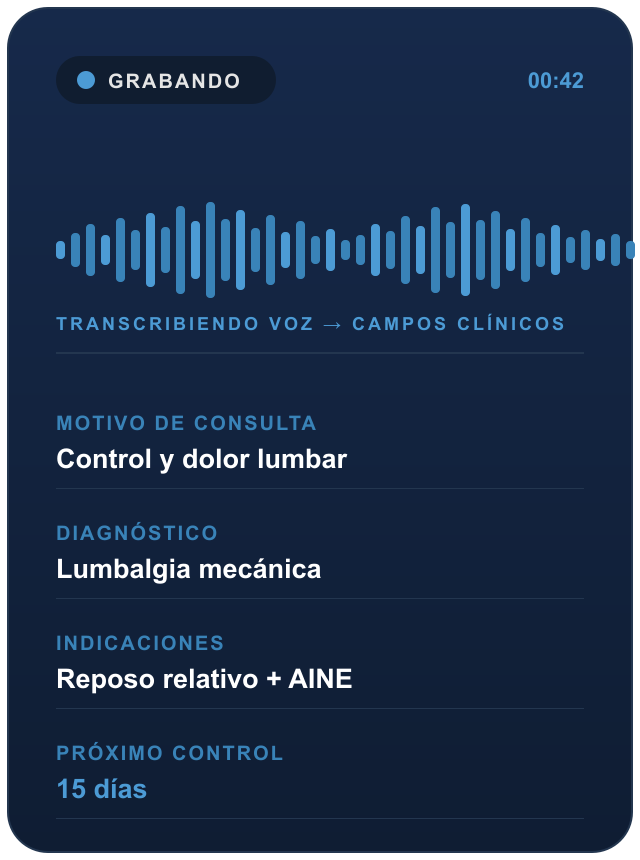
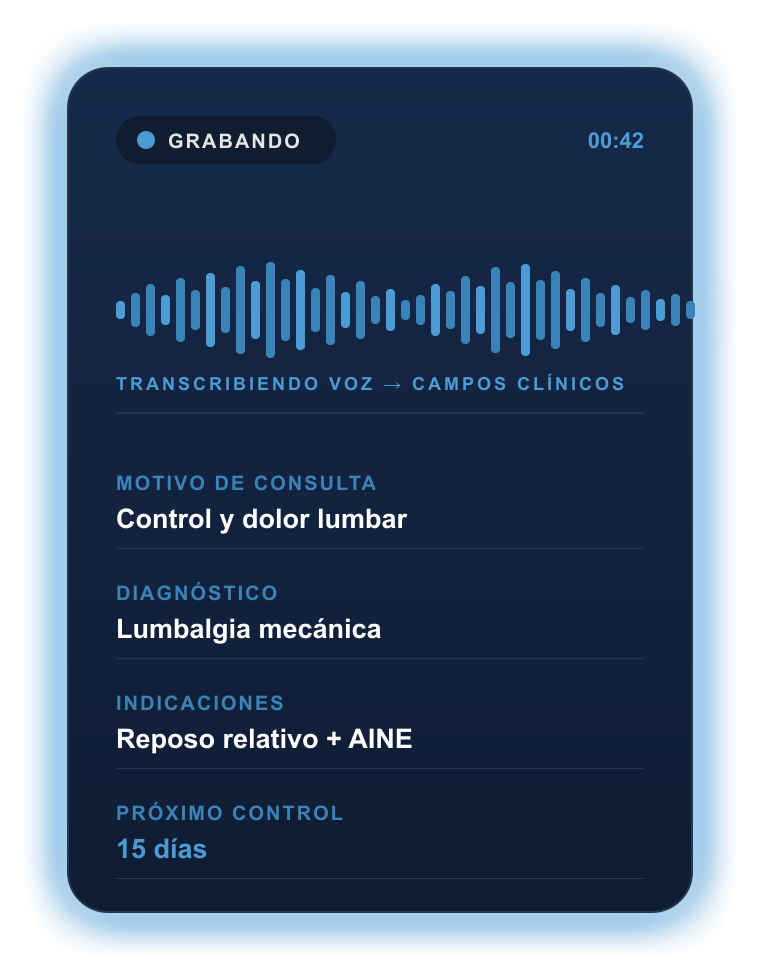
style: baked blue/white glow behind images, remove blue frame boxes

diff --git a/make-glow.js b/make-glow.js
@@ -1,0 +1,58 @@
+/**
+ * Hornea un GLOW (halo azul + blanco difuminado) detrás de cada teléfono / card,
+ * directamente en el PNG. Esto sobrevive en Gmail (que borra box-shadow/gradients).
+ *
+ * Lee los PNG ya recortados y los sobrescribe agregando padding transparente
+ * con el resplandor. CORRER UNA SOLA VEZ (si se corre de nuevo, vuelve a padear).
+ *
+ * USO: node make-glow.js
+ */
+const sharp = require('sharp');
+const path = require('path');
+const P = (f) => path.join(__dirname, f);
+
+const PAD = 60;
+
+async function glow(file) {
+  const meta = await sharp(P(file)).metadata();
+  const w = meta.width, h = meta.height;
+  const W = w + PAD * 2, H = h + PAD * 2;
+
+  // silueta a partir del canal alpha
+  const alpha = await sharp(P(file)).ensureAlpha().extractChannel(3).png().toBuffer();
+
+  const silhouette = (color) =>
+    sharp({ create: { width: w, height: h, channels: 3, background: color } })
+      .joinChannel(alpha).png().toBuffer();
+
+  const padded = async (color) => {
+    const sil = await silhouette(color);
+    return sharp({ create: { width: W, height: H, channels: 4, background: { r: 0, g: 0, b: 0, alpha: 0 } } })
+      .composite([{ input: sil, top: PAD, left: PAD }])
+      .png().toBuffer();
+  };
+
+  const blueGlow = await sharp(await padded('#4C9BD5')).blur(26).png().toBuffer();
+  const whiteGlow = await sharp(await padded('#dfefff')).blur(11).png().toBuffer();
+  const phone = await sharp(P(file)).toBuffer();
+
+  const out = await sharp({ create: { width: W, height: H, channels: 4, background: { r: 0, g: 0, b: 0, alpha: 0 } } })
+    .composite([
+      { input: blueGlow, top: 0, left: 0 },
+      { input: blueGlow, top: 0, left: 0 },
+      { input: whiteGlow, top: 0, left: 0 },
+      { input: phone, top: PAD, left: PAD },
+    ])
+    .png().toBuffer();
+
+  await sharp(out).toFile(P(file));
+  console.log('glow', file, '->', W + 'x' + H);
+}
+
+async function main() {
+  await glow('img/phones/federada-phone.png');
+  await glow('img/phones/espanol-phones.png');
+  await glow('img/out/gamma-card.png');
+}
+
+main().catch((e) => { console.error(e); process.exit(1); });

diff --git a/index.html b/index.html
@@ -116,14 +116,8 @@
                   <td style="padding:26px 30px 4px 18px;">
                     <table role="presentation" width="100%" cellpadding="0" cellspacing="0" border="0">
                       <tr>
-                        <td valign="middle" width="44%" style="padding-right:16px;">
-                          <table role="presentation" width="100%" cellpadding="0" cellspacing="0" border="0" style="background-color:#0d1726; border:1px solid #3983B8; border-radius:20px;">
-                            <tr>
-                              <td align="center" style="padding:18px;">
-                                <img src="img/phones/federada-phone.png" width="220" alt="App Federada" style="display:block; width:100%; max-width:220px; height:auto; border:0;">
-                              </td>
-                            </tr>
-                          </table>
+                        <td valign="middle" width="50%" style="padding-right:6px;">
+                          <img src="img/phones/federada-phone.png" width="320" alt="App Federada" style="display:block; width:100%; max-width:320px; height:auto; border:0;">
                         </td>
                         <td valign="middle" width="58%">
                           <p style="margin:0 0 6px 0; color:#4C9BD5; font-size:12px; letter-spacing:2px; font-weight:bold; text-transform:uppercase;">// El problema</p>
@@ -185,14 +179,8 @@
                   <td style="padding:26px 26px 4px 18px;">
                     <table role="presentation" width="100%" cellpadding="0" cellspacing="0" border="0">
                       <tr>
-                        <td valign="middle" width="52%" style="padding-right:16px;">
-                          <table role="presentation" width="100%" cellpadding="0" cellspacing="0" border="0" style="background-color:#0d1726; border:1px solid #3983B8; border-radius:20px;">
-                            <tr>
-                              <td align="center" style="padding:18px;">
-                                <img src="img/phones/espanol-phones.png" width="280" alt="App Hospital Español" style="display:block; width:100%; max-width:280px; height:auto; border:0;">
-                              </td>
-                            </tr>
-                          </table>
+                        <td valign="middle" width="56%" style="padding-right:6px;">
+                          <img src="img/phones/espanol-phones.png" width="360" alt="App Hospital Español" style="display:block; width:100%; max-width:360px; height:auto; border:0;">
                         </td>
                         <td valign="middle" width="50%">
                           <p style="margin:0 0 6px 0; color:#3983B8; font-size:12px; letter-spacing:2px; font-weight:bold; text-transform:uppercase;">// El problema</p>
@@ -253,14 +241,8 @@
                   <td style="padding:26px 26px 4px 18px;">
                     <table role="presentation" width="100%" cellpadding="0" cellspacing="0" border="0">
                       <tr>
-                        <td valign="middle" width="50%" style="padding-right:16px;">
-                          <table role="presentation" width="100%" cellpadding="0" cellspacing="0" border="0" style="background-color:#0d1726; border:1px solid #3983B8; border-radius:20px;">
-                            <tr>
-                              <td align="center" style="padding:18px;">
-                                <img src="img/out/gamma-card.png" width="270" alt="Registro médico por voz" style="display:block; width:100%; max-width:270px; height:auto; border:0;">
-                              </td>
-                            </tr>
-                          </table>
+                        <td valign="middle" width="54%" style="padding-right:6px;">
+                          <img src="img/out/gamma-card.png" width="350" alt="Registro médico por voz" style="display:block; width:100%; max-width:350px; height:auto; border:0;">
                         </td>
                         <td valign="middle" width="52%">
                           <p style="margin:0 0 6px 0; color:#4C9BD5; font-size:12px; letter-spacing:2px; font-weight:bold; text-transform:uppercase;">// El problema</p>

diff --git a/newsletter.html b/newsletter.html
@@ -116,14 +116,8 @@
                   <td style="padding:26px 30px 4px 18px;">
                     <table role="presentation" width="100%" cellpadding="0" cellspacing="0" border="0">
                       <tr>
-                        <td valign="middle" width="44%" style="padding-right:16px;">
-                          <table role="presentation" width="100%" cellpadding="0" cellspacing="0" border="0" style="background-color:#0d1726; border:1px solid #3983B8; border-radius:20px;">
-                            <tr>
-                              <td align="center" style="padding:18px;">
-                                <img src="img/phones/federada-phone.png" width="220" alt="App Federada" style="display:block; width:100%; max-width:220px; height:auto; border:0;">
-                              </td>
-                            </tr>
-                          </table>
+                        <td valign="middle" width="50%" style="padding-right:6px;">
+                          <img src="img/phones/federada-phone.png" width="320" alt="App Federada" style="display:block; width:100%; max-width:320px; height:auto; border:0;">
                         </td>
                         <td valign="middle" width="58%">
                           <p style="margin:0 0 6px 0; color:#4C9BD5; font-size:12px; letter-spacing:2px; font-weight:bold; text-transform:uppercase;">// El problema</p>
@@ -185,14 +179,8 @@
                   <td style="padding:26px 26px 4px 18px;">
                     <table role="presentation" width="100%" cellpadding="0" cellspacing="0" border="0">
                       <tr>
-                        <td valign="middle" width="52%" style="padding-right:16px;">
-                          <table role="presentation" width="100%" cellpadding="0" cellspacing="0" border="0" style="background-color:#0d1726; border:1px solid #3983B8; border-radius:20px;">
-                            <tr>
-                              <td align="center" style="padding:18px;">
-                                <img src="img/phones/espanol-phones.png" width="280" alt="App Hospital Español" style="display:block; width:100%; max-width:280px; height:auto; border:0;">
-                              </td>
-                            </tr>
-                          </table>
+                        <td valign="middle" width="56%" style="padding-right:6px;">
+                          <img src="img/phones/espanol-phones.png" width="360" alt="App Hospital Español" style="display:block; width:100%; max-width:360px; height:auto; border:0;">
                         </td>
                         <td valign="middle" width="50%">
                           <p style="margin:0 0 6px 0; color:#3983B8; font-size:12px; letter-spacing:2px; font-weight:bold; text-transform:uppercase;">// El problema</p>
@@ -253,14 +241,8 @@
                   <td style="padding:26px 26px 4px 18px;">
                     <table role="presentation" width="100%" cellpadding="0" cellspacing="0" border="0">
                       <tr>
-                        <td valign="middle" width="50%" style="padding-right:16px;">
-                          <table role="presentation" width="100%" cellpadding="0" cellspacing="0" border="0" style="background-color:#0d1726; border:1px solid #3983B8; border-radius:20px;">
-                            <tr>
-                              <td align="center" style="padding:18px;">
-                                <img src="img/out/gamma-card.png" width="270" alt="Registro médico por voz" style="display:block; width:100%; max-width:270px; height:auto; border:0;">
-                              </td>
-                            </tr>
-                          </table>
+                        <td valign="middle" width="54%" style="padding-right:6px;">
+                          <img src="img/out/gamma-card.png" width="350" alt="Registro médico por voz" style="display:block; width:100%; max-width:350px; height:auto; border:0;">
                         </td>
                         <td valign="middle" width="52%">
                           <p style="margin:0 0 6px 0; color:#4C9BD5; font-size:12px; letter-spacing:2px; font-weight:bold; text-transform:uppercase;">// El problema</p>